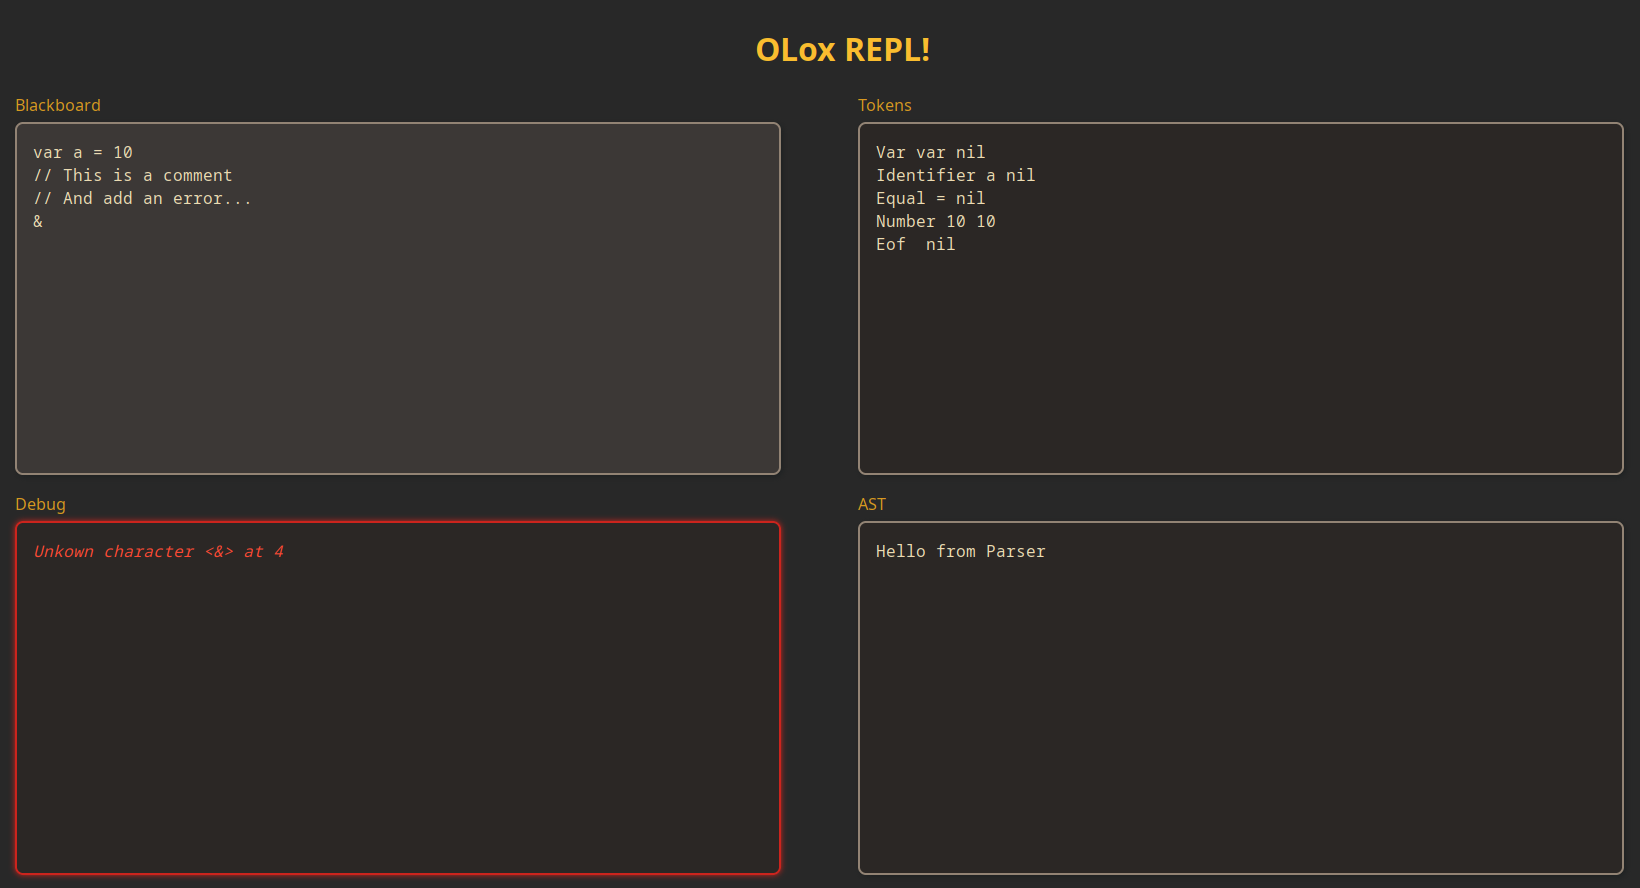
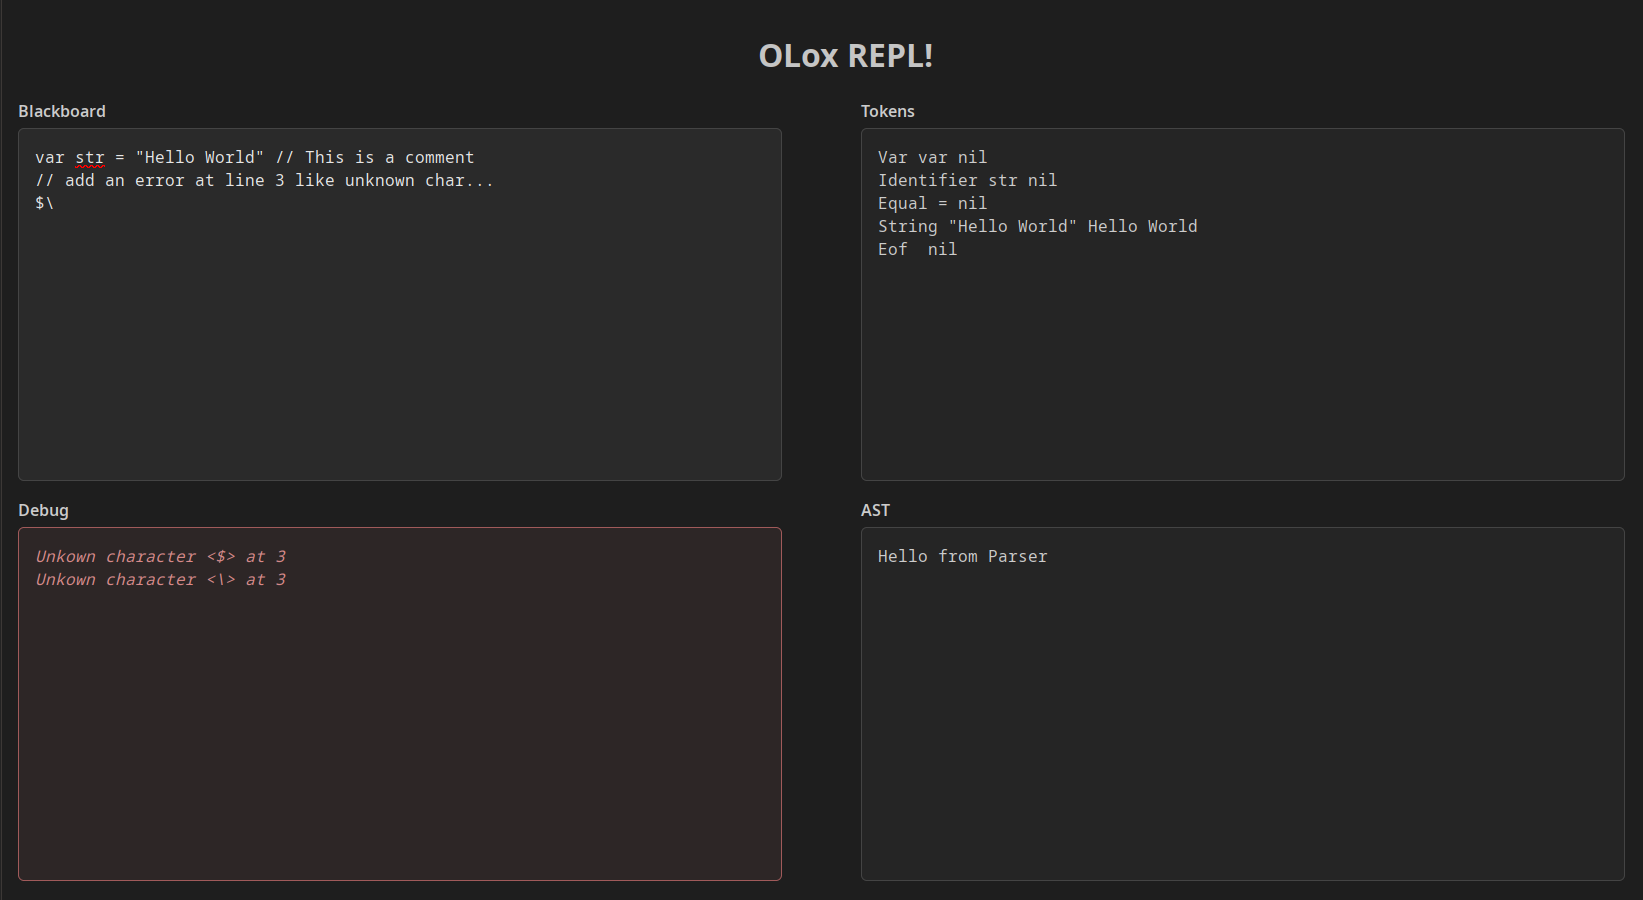
Update style for classical dark mode

diff --git a/static/style.css b/static/style.css
@@ -2,21 +2,21 @@ body {
   margin: 0;
   padding: 1rem;
   height: 100vh;
-  background-color: #282828;
-  font-family: sans-serif;
-  color: #333;
+  background-color: #1e1e1e;
+  font-family: "Segoe UI", sans-serif;
+  color: #e0e0e0;
 }
 
 h1 {
   text-align: center;
-  color: #fabd2f;
+  color: #c5c5c5;
 }
 
 .container {
   display: flex;
   height: 80vh;
   margin-top: 1rem;
-  gap: 2rem; /* Add space between left and right */  
+  gap: 2rem;
 }
 
 .left, .right {
@@ -29,37 +29,40 @@ h1 {
 .section {
   flex: 1;
   display: flex;
-  flex-direction: column;  
-}
-
-#debug {
-  background-color: #2b2725;
-  color: #fb4934;
-  border-color: #cc241d;
-  font-style: italic;
-  box-shadow: 0 0 5px #cc241d;
-}
-
-#tokens, #ast {
-  background-color: #2b2725;
+  flex-direction: column;
 }
 
 label {
   margin-bottom: 0.3rem;
-  color: #d79921;
+  color: #cccccc;
+  font-weight: 600;
 }
 
 textarea {
   flex: 1;
-  background-color: #3c3836;
-  color: #ebdbb2;
-  border: 2px solid #928374;
-  border-radius: 8px;
+  background-color: #2a2a2a;
+  color: #e6e6e6;
+  border: 1px solid #444;
+  border-radius: 6px;
   padding: 1rem;
   font-family: monospace;
   font-size: 1rem;
-  box-shadow: 2px 2px 6px #1d2021;
+  box-shadow: none;
   resize: none;
   width: 90%;
   height: 90%;
+}
+
+/* Error/debug textarea */
+#debug {
+  background-color: #2d2626;
+  color: #d78a8a;
+  border-color: #a05a5a;
+  font-style: italic;
+}
+
+/* Output textareas (tokens, ast) */
+#tokens, #ast {
+  background-color: #252525;
+  color: #cccccc;
 }
